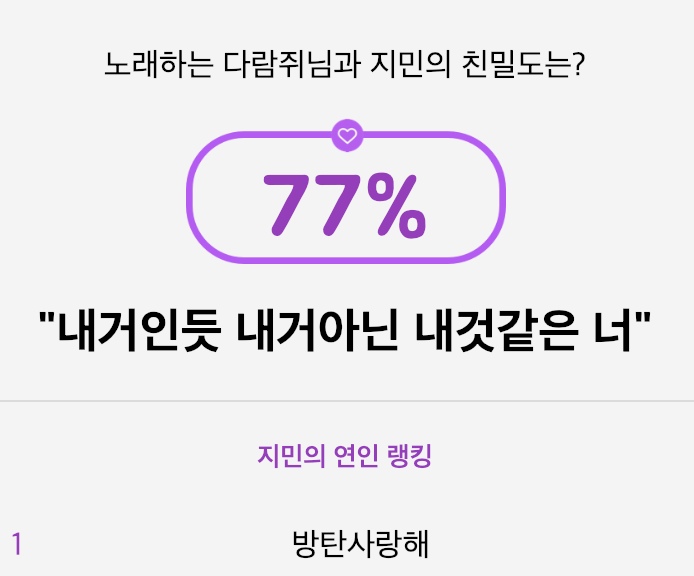
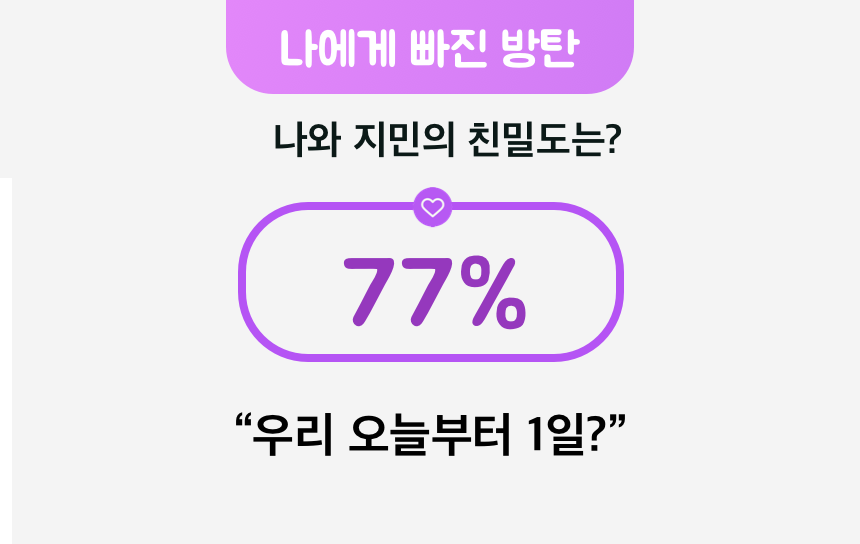
thumbnail test

diff --git a/ranking_jimin.html b/ranking_jimin.html
@@ -7,6 +7,9 @@
         <link href="https://fonts.googleapis.com/css?family=Jua" rel="stylesheet">
     </head>
     <body>
+        <div id="yame" style="display: none">
+                <image src = "images/rankingTitleImage_jimin.png">
+        </div>>
         <div style="overflow:visible;text-align: center;  margin: auto; padding-top: 1px; width:350px; height:320px; background-color:#f4f4f4;">
             <p style="text-align:left; font-size:10pt; margin:8px; padding:8px; background-color:white;color:black;font-weight:400;">랭킹과 결과공유 서비스는 준비중입니다 :) 
                 랭킹은 대화내용과 공유의 수로 계산됩니다.

diff --git a/ranking_jin.html b/ranking_jin.html
@@ -6,6 +6,9 @@
     </head>
         
     <body>
+            <div id="yame" style="display: none">
+                    <image src = "images/rankingTitleImage_jin.png">
+            </div>>
         <div style="overflow:visible;text-align: center;  margin: auto; padding-top: 1px; width:350px; height:320px; background-color:#f4f4f4;">
             <p style="text-align:left; font-size:10pt; margin:8px; padding:8px; background-color:white;color:black;font-weight:400;">랭킹과 결과공유 서비스는 준비중입니다 :) 
                 랭킹은 대화내용과 공유의 수로 계산됩니다.

diff --git a/ranking_sugar.html b/ranking_sugar.html
@@ -6,6 +6,9 @@
     </head>
         
     <body>
+        <div id="yame" style="display: none">
+                <image src = "images/rankingTitleImage_sugar.png">
+        </div>>
         <div style="overflow:visible;text-align: center;  margin: auto; padding-top: 1px; width:350px; height:320px; background-color:#f4f4f4;">
             <p style="text-align:left; font-size:10pt; margin:8px; padding:8px; background-color:white;color:black;font-weight:400;">랭킹과 결과공유 서비스는 준비중입니다 :) 
                 랭킹은 대화내용과 공유의 수로 계산됩니다.

diff --git a/ranking_v.html b/ranking_v.html
@@ -6,6 +6,9 @@
     </head>
         
     <body>
+        <div id="yame" style="display: none">
+                <image src = "images/rankingTitleImage_v.png">
+        </div>>
         <div style="overflow:visible;text-align: center;  margin: auto; padding-top: 1px; width:350px; height:320px; background-color:#f4f4f4;">
             <p style="text-align:left; font-size:10pt; margin:8px; padding:8px; background-color:white;color:black;font-weight:400;">랭킹과 결과공유 서비스는 준비중입니다 :) 
                 랭킹은 대화내용과 공유의 수로 계산됩니다.
